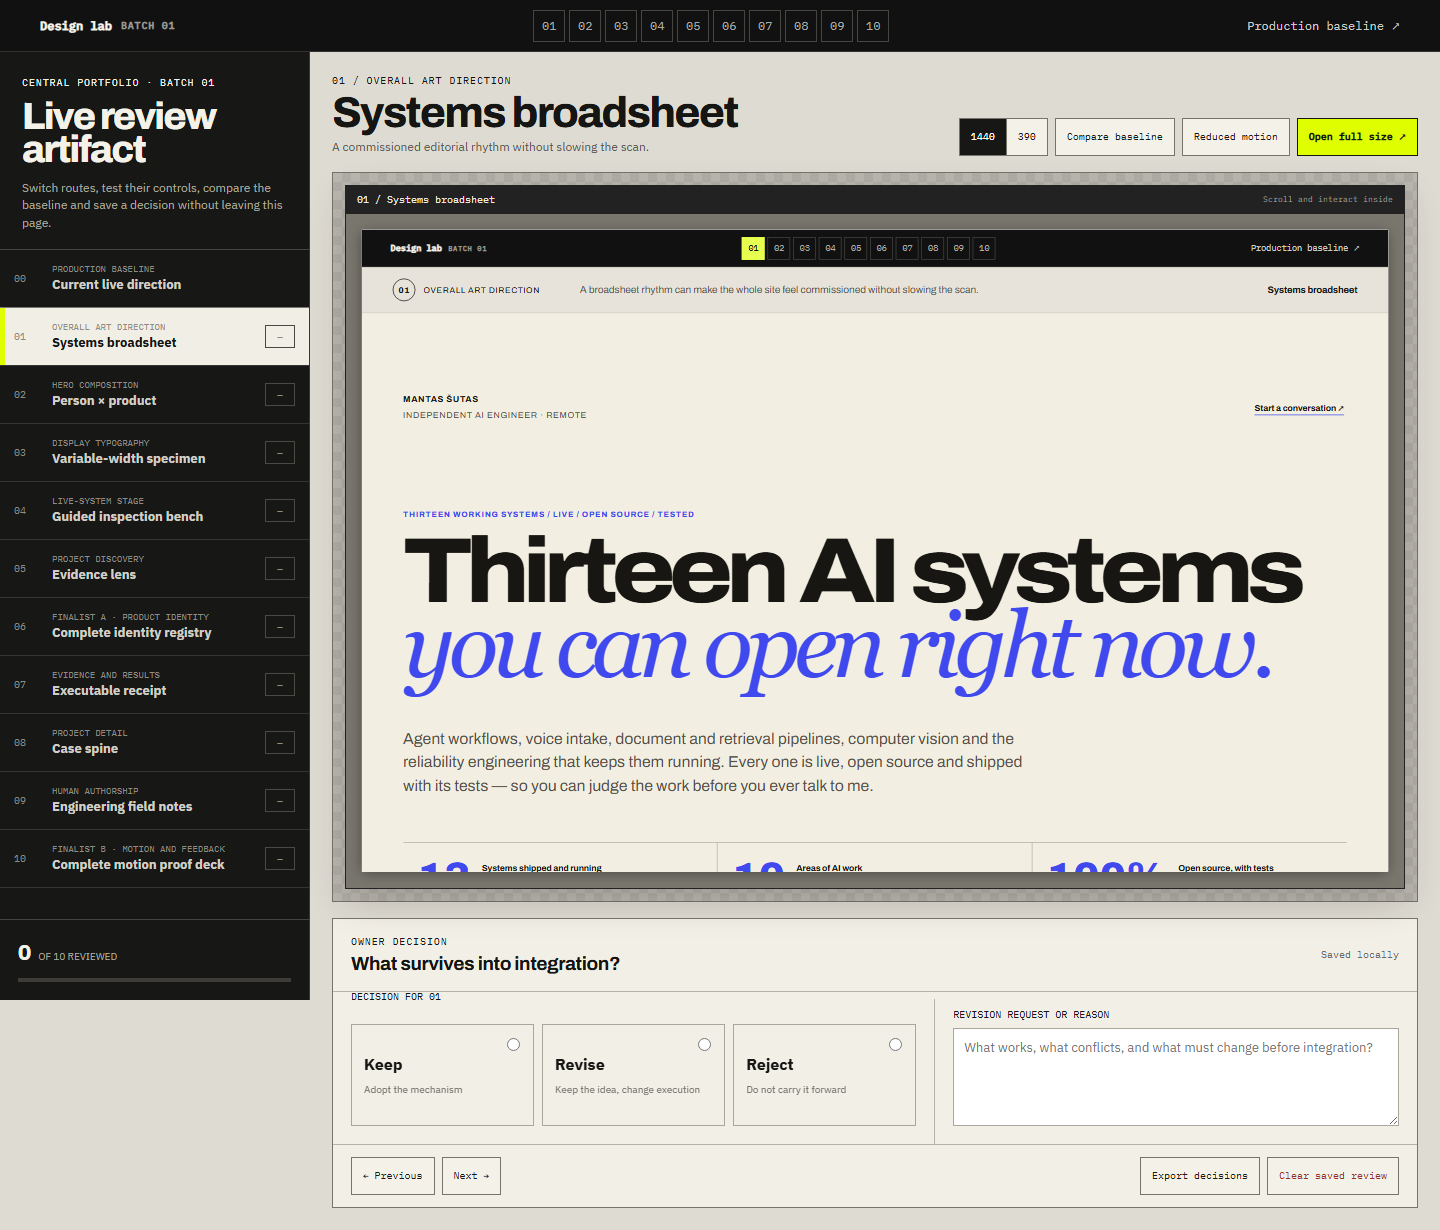
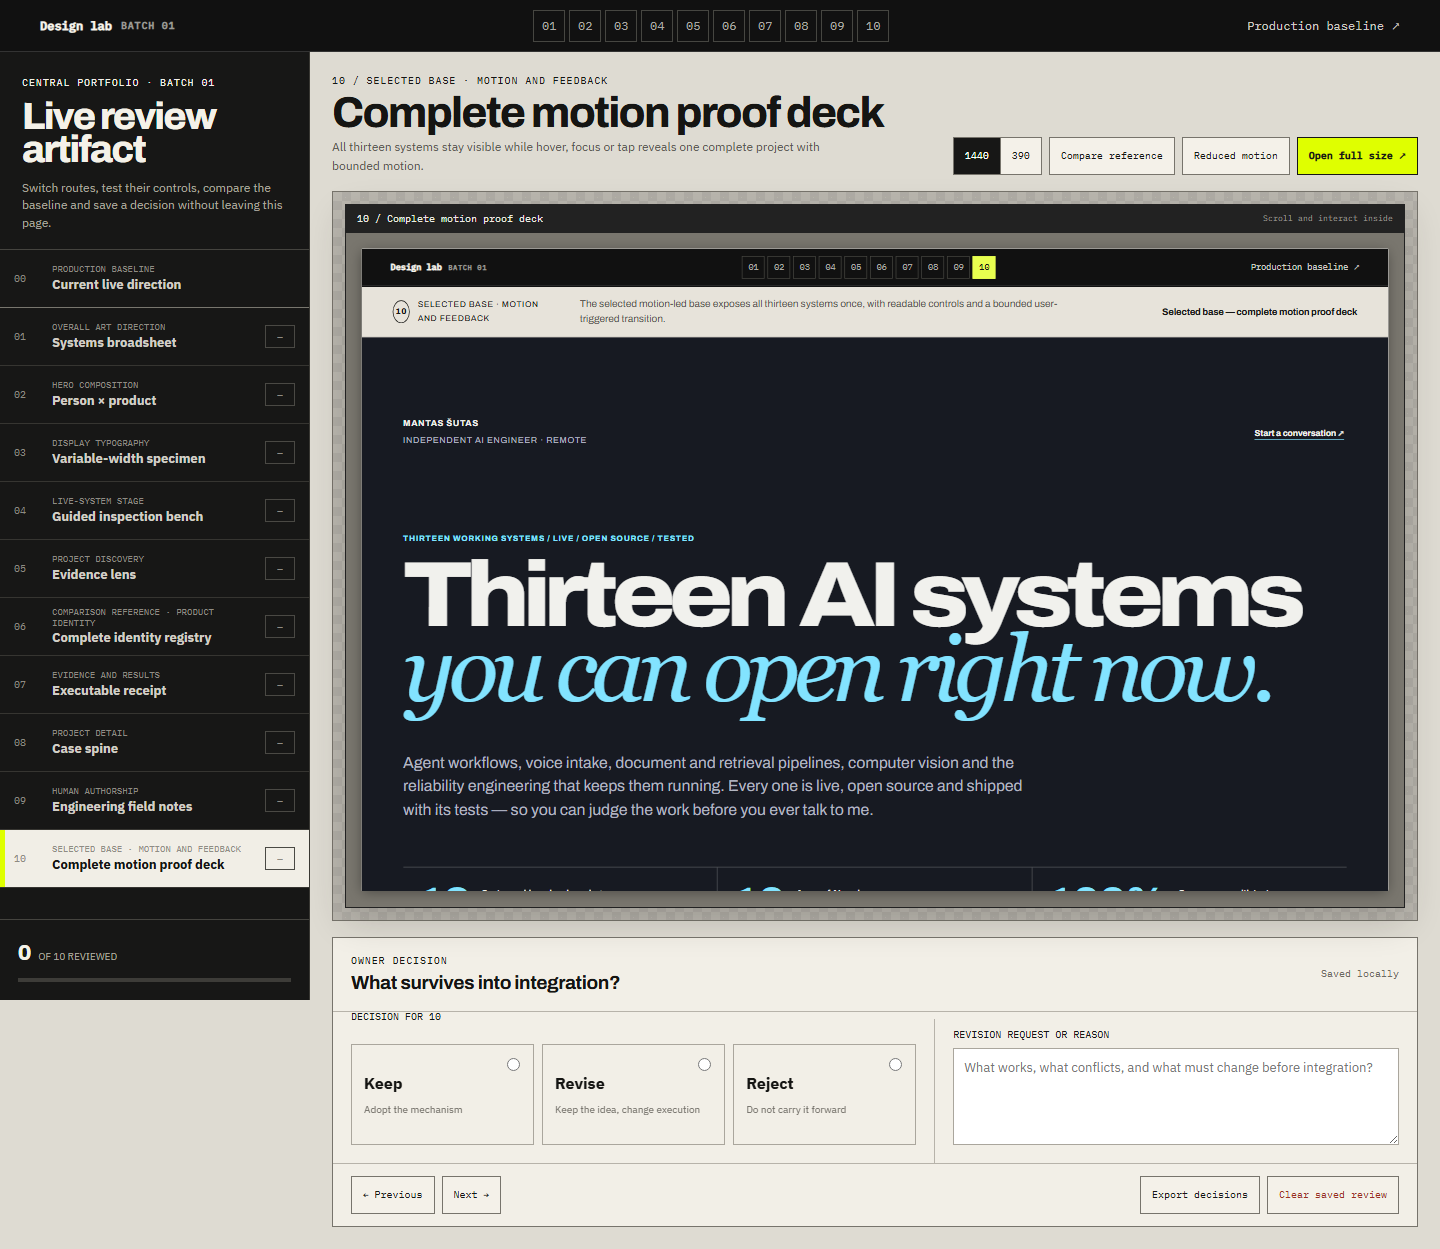
feat(design-lab): select motion deck as base

diff --git a/design-lab/VARIANT_MANIFEST.md b/design-lab/VARIANT_MANIFEST.md
@@ -14,18 +14,19 @@ media and claims. The lab is absent from production navigation.
 | 03 | **Display typography — variable-width specimen.** Using Archivo's existing width axis as composition can create identity without another font or graphic layer. | Instrument grotesque crop; Vercel scale contrast; Archivo already shipped | Conventional bold headline becomes a condensed/expanded typographic poster with a visitor-controlled width specimen. | Distinctive at near-zero payload cost; demonstrates design control. | Expressive type can reduce immediate legibility if pushed too far. | S |  |
 | 04 | **Live stage — guided inspection bench.** A product stage should point to one important interaction and result instead of showing an undirected full console. | Linear real interface; Raycast category media; Codrops clip/reveal mechanisms refitted to click only | Generic browser frame becomes a product-coloured crop with three accessible inspection points and click-triggered focus masks. | Makes dense interfaces legible at contact-sheet size and gives visitors a reason to interact. | Annotation maintenance when product UIs change; risks feeling like a tour overlay. | M |  |
 | 05 | **Project discovery — evidence lens.** A complete text index can gain strong information scent through a collision-safe preview on hover/focus without hiding any rows. | Eugene Yan counted index; ustwo chapters; Floating UI (32.7k stars) for placement | Same thirteen visible rows, grouped by client route; focused row opens a real product preview and hard-part label beside it. | Faster comparison and stronger media presence without a card grid or carousel. | Desktop enhancement has no exact mobile equivalent; preview must never obstruct controls. | M |  |
-| 06 | **Finalist A — complete identity registry.** Each system's own accent can make breadth memorable while a complete visible index keeps comparison immediate. | Stripe product-connected colour; Raycast campaign identity; PostHog proprietary palette; experiment 05 hover/focus lens | All 13 descriptive titles are visible in one list; hover, focus or tap changes the full canonical project preview, image mat and actions. | Products stop looking reskinned; the index is complete and fast to inspect without a second directory. | The long visible index is deliberately dense, especially on mobile. | M |  |
+| 06 | **Comparison reference — complete identity registry.** Each system's own accent can make breadth memorable while a complete visible index keeps comparison immediate. | Stripe product-connected colour; Raycast campaign identity; PostHog proprietary palette; experiment 05 hover/focus lens | All 13 descriptive titles are visible in one list; hover, focus or tap changes the full canonical project preview, image mat and actions. | Products stop looking reskinned; the index is complete and fast to inspect without a second directory. | The long visible index is deliberately dense, especially on mobile. | M | REFERENCE |
 | 07 | **Evidence — executable receipt.** Results should scan as a test outcome with artifact, rerun and limit in one visual path. | Linear explicit state; PostHog candid copy; existing immutable evidence contract | Definition lists become a large 7/7 result, failure/recovery timeline, artifact links, rerun block and visibly bounded claim. | Turns invisible reliability work into a high-signal visual asset. | A receipt treatment may over-emphasize one impressive project or look like a certification claim. | M |  |
 | 08 | **Project detail — case spine.** One sticky chapter spine can preserve orientation while each project gets a composition suited to its defining artifact. | ustwo editorial chapters; Stripe product sequences; Brittany Chiang sticky orientation | Flat detail sequence becomes Problem / Run it / Receipt / Adapt it chapters with a sticky index and project-specific stage. | Better depth without forcing a long linear read; stronger case-study feel. | More authoring per project and a larger consistency burden across thirteen pages. | L |  |
 | 09 | **Human authorship — engineering field notes.** First-person decisions and a larger portrait can expose judgement without invented social proof. | thoughtbot people; Valentin portrait; Josh Comeau authored voice; PostHog candour | Small identity chip becomes a signed field-note spread pairing Mantas's real decisions with the corresponding systems. | Makes the portfolio feel owned by a practitioner, not assembled from project cards. | Can become self-focused or verbose; claims must remain interview-defensible. | M |  |
-| 10 | **Finalist B — complete motion proof deck.** Motion should reveal one selected system only after an explicit choice and should stop instantly under reduced motion. | Josh Comeau microinteractions; Motion (32.1k stars); Codrops transition principles refitted away from scroll; experiment 05 hover/focus lens | The former three-card prelude and duplicated directory are replaced by one grouped 13-project index and one full canonical stage. Hover, focus or tap triggers a bounded entrance effect. | Keeps the cooler feedback while making the information scope complete, readable and non-redundant. | Motion still adds a dependency and the grouped index is longer than 06's flat registry. | M |  |
+| 10 | **Selected base — complete motion proof deck.** Motion reveals one selected system only after an explicit choice and stops instantly under reduced motion. | Josh Comeau microinteractions; Motion (32.1k stars); Codrops transition principles refitted away from scroll; experiment 05 hover/focus lens | The former three-card prelude and duplicated directory are replaced by one grouped 13-project index and one full canonical stage. Hover, focus or tap triggers a bounded entrance effect. | Keeps the cooler feedback while making the information scope complete, readable and non-redundant. | Motion still adds a dependency and the grouped index is longer than 06's flat registry. | M | SELECTED BASE |
 
 ## Review table
 
-Owner shortlist, 2026-08-16: **06 and 10 remain parallel finalists; no base has
-been selected.** Both now share equal canonical content and reuse 05's
-hover/focus discovery behavior. Compare identity-led 06 against motion-led 10;
-do not infer a winner from the implementation order.
+Owner decision, 2026-08-16: **10 is the selected base.** Variant 06 remains the
+equal-content comparison reference, not a second candidate. Base 10 retains its
+grouped 13-project index, complete canonical evidence stage, hover/focus/tap
+selection and bounded reduced-motion-safe transition. Project detail pages no
+longer include project-specific “Talk about” email buttons.
 
 | # | Decision | Revision request or reason |
 | ---: | --- | --- |
@@ -34,8 +35,8 @@ do not infer a winner from the implementation order.
 | 03 |  |  |
 | 04 |  |  |
 | 05 |  |  |
-| 06 |  |  |
+| 06 | REFERENCE | Retain only for direct scan-density comparison with selected base 10. |
 | 07 |  |  |
 | 08 |  |  |
 | 09 |  |  |
-| 10 |  |  |
+| 10 | KEEP | Selected as the base for the next bounded improvement slice. |
